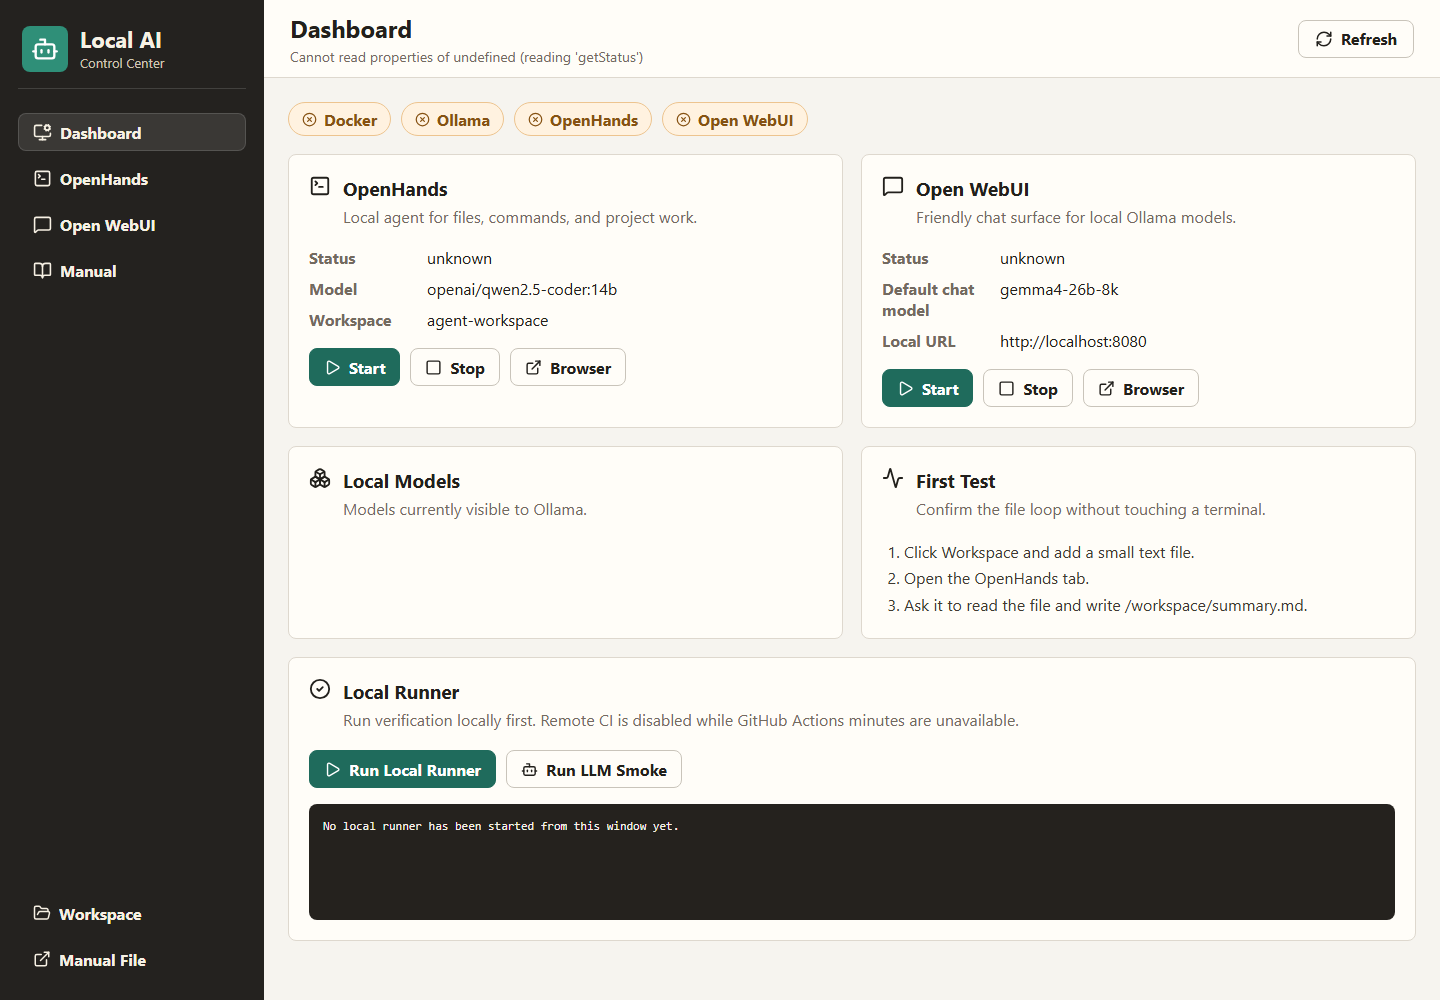
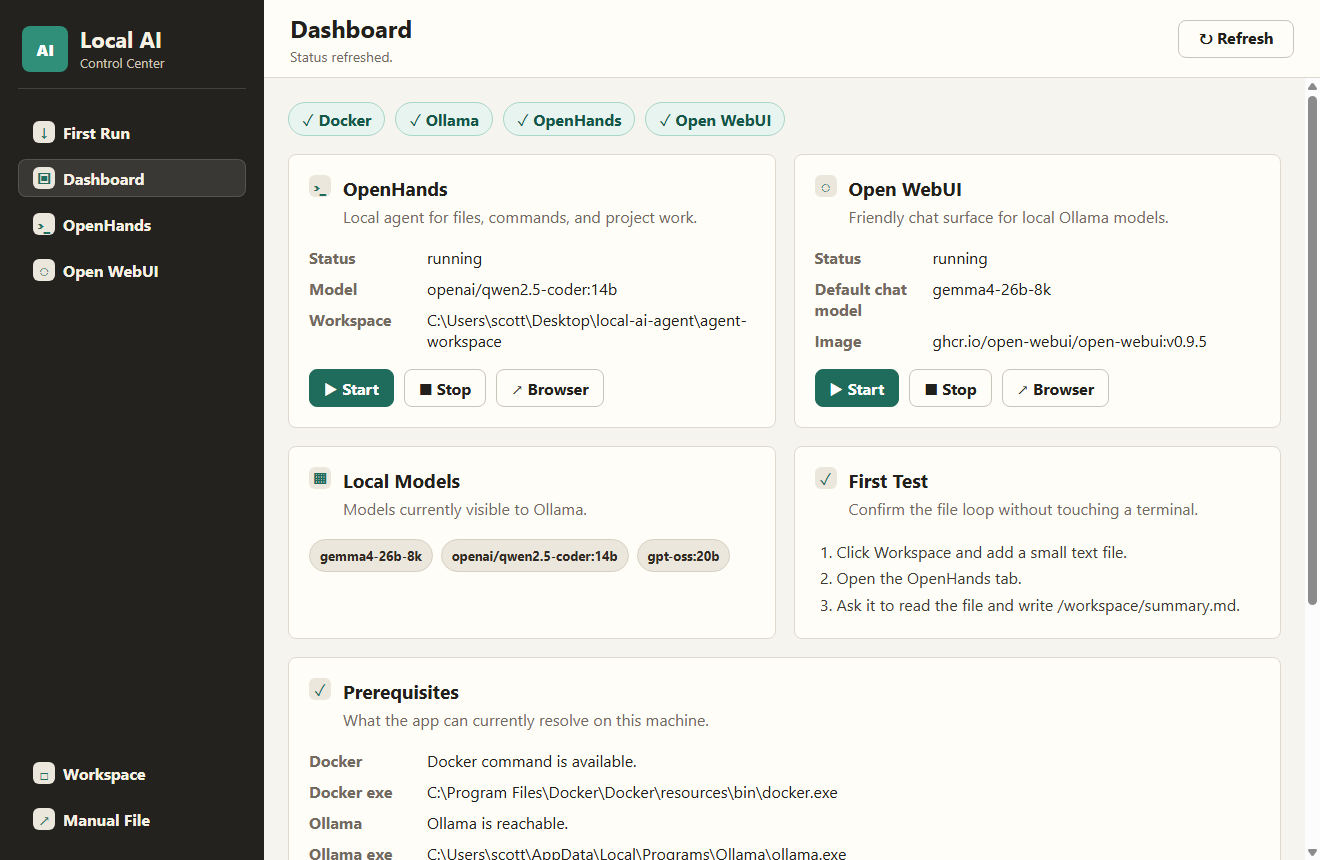
Refresh public screenshot asset

diff --git a/landing/index.html b/landing/index.html
@@ -41,8 +41,8 @@
             models without managing a pile of terminal commands.
           </p>
           <div class="hero-actions">
-            <a class="button primary" href="https://github.com/scottconverse/local-ai-control-center/releases/tag/v0.2.2">
-              Download v0.2.2
+            <a class="button primary" href="https://github.com/scottconverse/local-ai-control-center/releases/tag/v0.2.3">
+              Download v0.2.3
             </a>
             <a class="button secondary" href="https://github.com/scottconverse/local-ai-control-center">
               View GitHub Repo
@@ -140,7 +140,7 @@
           </p>
         </div>
         <div class="cta-actions">
-          <a class="button primary" href="https://github.com/scottconverse/local-ai-control-center/releases/tag/v0.2.2">
+          <a class="button primary" href="https://github.com/scottconverse/local-ai-control-center/releases/tag/v0.2.3">
             Get the release
           </a>
           <a class="button secondary" href="https://github.com/scottconverse/local-ai-control-center">
@@ -152,7 +152,7 @@
 
     <footer>
       <span>Local AI Control Center</span>
-      <span>Windows-only v0.2.2 - Local services bind to 127.0.0.1</span>
+      <span>Windows-only v0.2.3 - Local services bind to 127.0.0.1</span>
     </footer>
   </body>
 </html>

diff --git a/tests/status.test.ts b/tests/status.test.ts
@@ -39,7 +39,7 @@ describe("service launcher scripts", () => {
 
   it("tracks the patch release version for the safety fix", () => {
     const packageJson = JSON.parse(read("package.json")) as { version: string };
-    expect(packageJson.version).toBe("0.2.2");
+    expect(packageJson.version).toBe("0.2.3");
   });
 
   it("keeps the landing page status current with shipped hardening work", () => {
@@ -145,5 +145,11 @@ describe("service launcher scripts", () => {
     expect(app).toContain('aria-label="Refresh status"');
     expect(app).toContain('title="OpenHands Agent"');
     expect(app).toContain('partition="persist:openhands"');
+  });
+
+  it("documents screenshot refresh expectations for contributors", () => {
+    const contributing = read("CONTRIBUTING.md");
+
+    expect(contributing).toContain("Refresh screenshots in `landing/assets/` when UI copy or visible dashboard state changes.");
   });
 });

diff --git a/tests/setup-logic.test.ts b/tests/setup-logic.test.ts
@@ -53,6 +53,11 @@ describe("setup hardware logic", () => {
     expect(diskHardwareCheck(40, 512, "C:", true).ok).toBe(false);
   });
 
+  it("passes machines that meet the memory and disk gates", () => {
+    expect(memoryHardwareCheck(32, 20, true).ok).toBe(true);
+    expect(diskHardwareCheck(120, 1024, "C:", true).ok).toBe(true);
+  });
+
   it("parses Ollama tags JSON without depending on CLI column output", () => {
     const tags = parseOllamaTags(JSON.stringify({ models: [{ name: "gemma4-26b-8k" }, { name: "openai/qwen2.5-coder:14b" }] }));
 

diff --git a/CHANGELOG.md b/CHANGELOG.md
@@ -1,5 +1,11 @@
 # Changelog
 
+## 0.2.3 - 2026-05-14
+
+- Refreshed the dashboard screenshot used by the README and landing page so it no longer contains stale internal UI copy.
+- Added memory and disk pass-path coverage to the setup logic tests.
+- Added a contributor rule to refresh screenshots when visible UI copy changes.
+
 ## 0.2.2 - 2026-05-14
 
 - Added more behavioral tests for setup edge cases: multi-GPU selection, missing `nvidia-smi`, and malformed Ollama tags JSON.

diff --git a/CONTRIBUTING.md b/CONTRIBUTING.md
@@ -31,3 +31,4 @@ npm run package:win
 - Avoid floating Docker image tags.
 - Do not add terminal-first instructions to `USER_MANUAL.md`; put developer commands in `DEVELOPER.md`.
 - Add or update tests for safety-sensitive runtime behavior.
+- Refresh screenshots in `landing/assets/` when UI copy or visible dashboard state changes.
